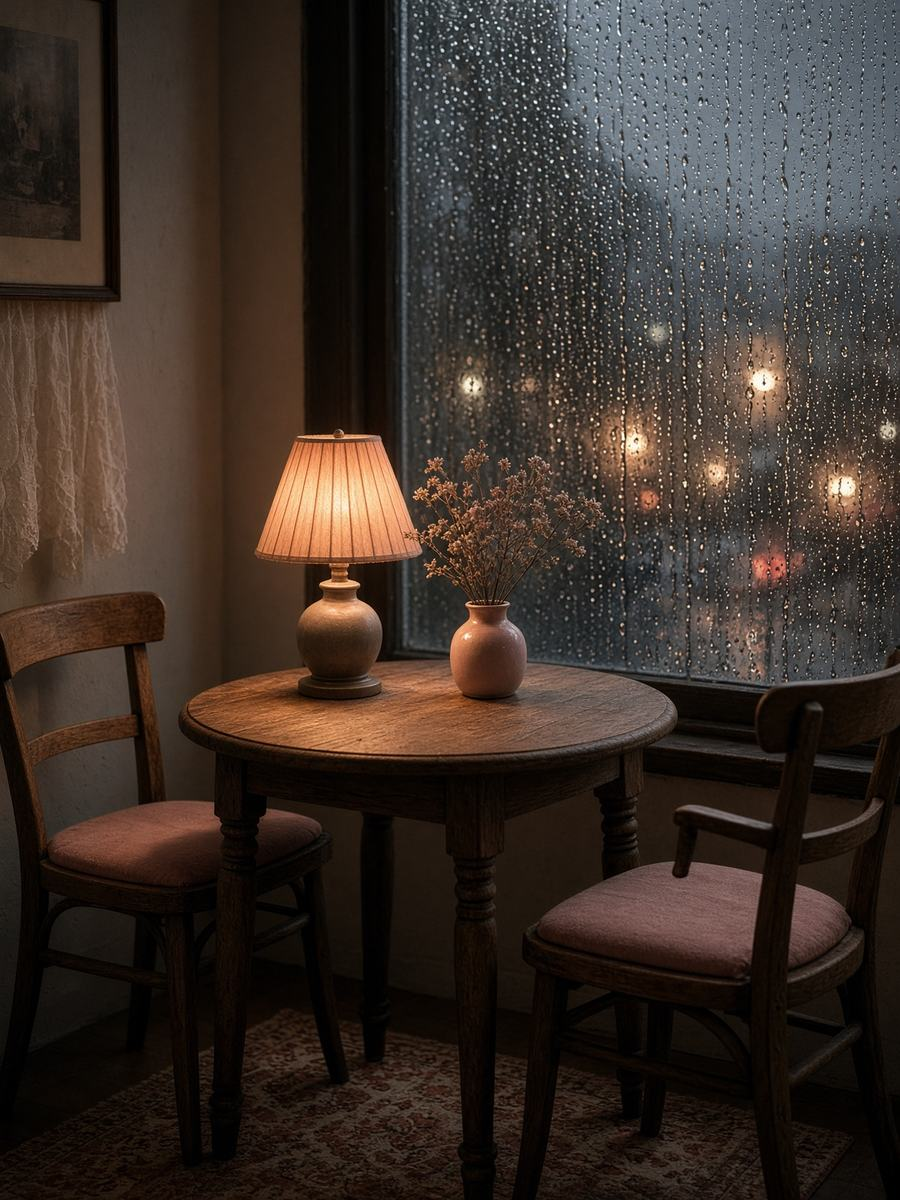
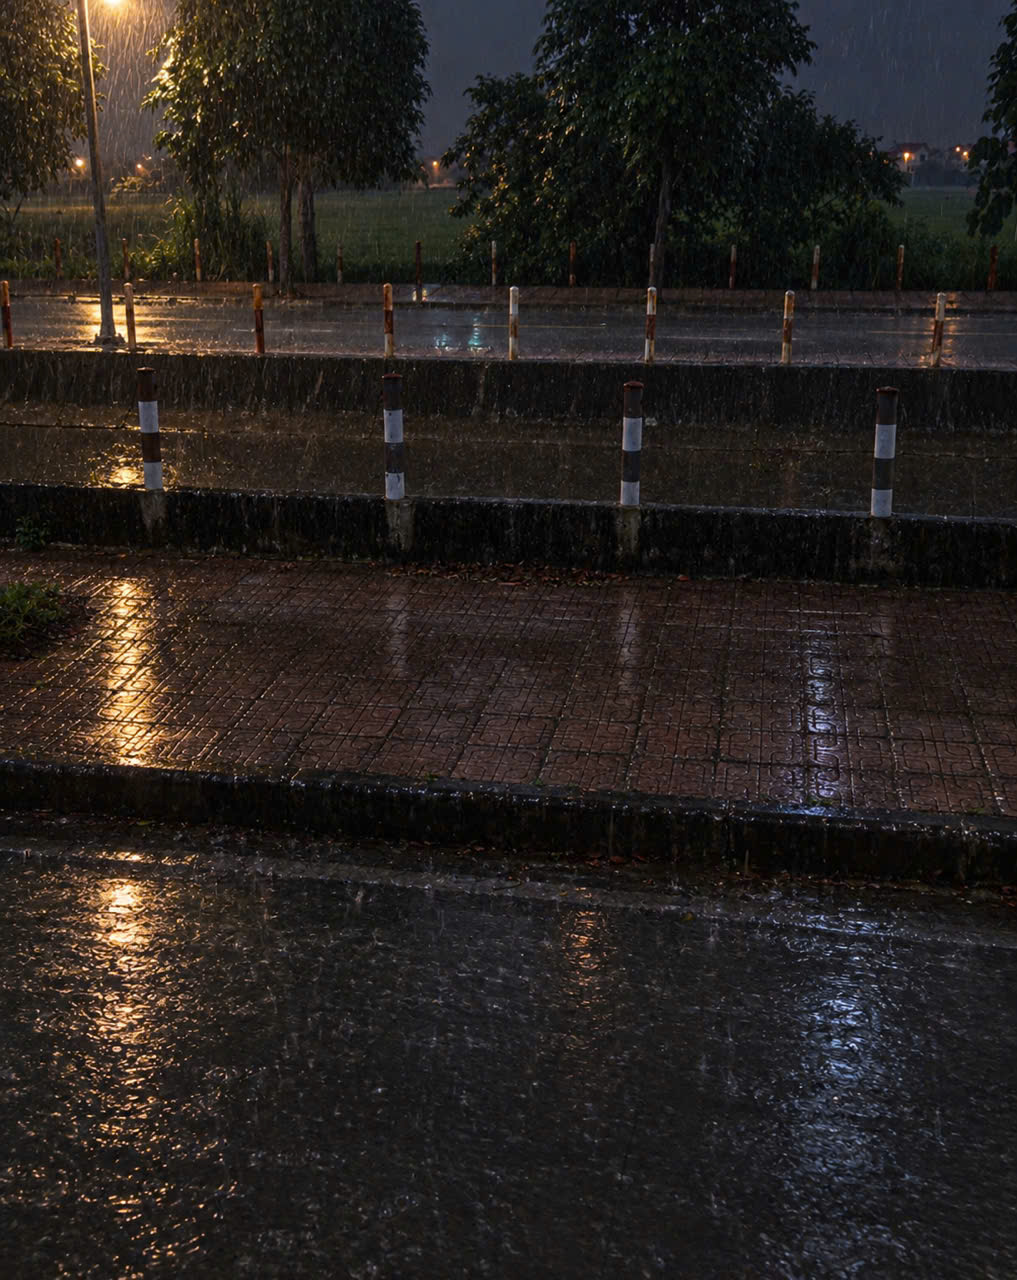
Update gift website

diff --git a/src/content/gift.ts b/src/content/gift.ts
@@ -22,84 +22,137 @@ export type MemoryMoment = {
 
 export const gift = {
   intro: {
-    headline: "Có một món quà nhỏ dành riêng cho cậu",
+    headline: "Có một món quà nhỏ dành riêng cho Huệ",
     hint: "Chạm vào hộp quà để mở nhé ♡",
   },
+
   story: {
-    kicker: "Một lá thư được gói lại",
-    title: "Dành cho cậu",
-    lede: "Mở chậm thôi. Phía dưới là thư, vài khung ảnh, một dòng thời gian, và một lời nhắn mình giấu ở cuối.",
+    kicker: "Từ một lần gặp gỡ",
+    title: "Gửi em, Huệ",
+    lede:
+      "Anh đã gom một vài kỷ niệm nhỏ vào đây. Có những điều anh vẫn nhớ, có những điều anh chưa từng nói, và có một điều anh muốn em biết khi đọc đến cuối.",
   },
+
   letter: {
-    greeting: "Cậu ơi,",
+    greeting: "Huệ ơi,",
+
     paragraphs: [
-      "Mình gói món quà này để cậu mở một mình, như nhận một điều chỉ dành cho cậu — không ồn ào, không cần trả lời ngay.",
-      "Cảm ơn cậu đã khiến những ngày bình thường trở nên dịu hơn. Mình không cần một dịp thật lớn mới nhớ đến cậu.",
-      "Nếu cậu đang mỉm cười lúc này, món quà đã tới đúng chỗ. Phía dưới còn vài khung ảnh, một dòng thời gian, và một lời nhắn mình giấu ở cuối.",
+      "Anh cũng không biết phải bắt đầu từ đâu nữa. Có lẽ là từ ngày 06/09, khi hai đứa gặp nhau ở sân cầu lông. Lúc ấy anh đâu nghĩ rằng một người mới quen lại có thể dần trở thành người khiến anh mong chờ những lần gặp tiếp theo đến vậy.",
+
+      "Sau đó là những buổi đánh cầu, buổi đi chơi quanh Hồ Tây, hôm trời mưa, buổi Music Box, những lần ngồi cà phê và cả những cuộc gọi kéo dài đến khuya. Mỗi chuyện khi xảy ra đều rất bình thường, nhưng chẳng hiểu từ lúc nào anh lại nhớ chúng lâu hơn mình nghĩ.",
+
+      "Anh bắt đầu nhớ những điều nhỏ xíu về em, nhớ những câu chuyện em kể, nhớ cả cảm giác vui vui khi biết hôm nay có thể gặp em. Có những ngày chẳng có gì đặc biệt, nhưng chỉ cần được nói chuyện với em một lúc thôi cũng đủ khiến ngày hôm ấy dễ chịu hơn.",
+
+      "Anh làm trang quà này không phải vì muốn biến những kỷ niệm ấy thành điều gì quá lớn lao. Anh chỉ muốn giữ lại một chút những ngày vừa qua, theo cách riêng của anh, để em biết rằng sự xuất hiện của em đã khiến cuộc sống thường ngày của anh có thêm nhiều điều đáng mong chờ.",
+
+      "Có một điều anh đã nghĩ khá lâu mới quyết định nói ra. Anh thích em, Huệ ạ. Không chỉ vì những buổi đi chơi vui vẻ, mà vì càng tiếp xúc, anh càng muốn hiểu em nhiều hơn, quan tâm em nhiều hơn và được cùng em tạo thêm những kỷ niệm mới.",
+
+      "Anh biết chuyện tình cảm không phải cứ có một người chân thành thì mọi thứ sẽ tự nhiên trở nên đúng lúc. Anh cũng nhớ em từng nói rằng em sợ làm tổn thương người khác khi yêu. Vì thế, anh không muốn em cảm thấy phải trả lời anh theo cách nào đó chỉ vì anh đã chuẩn bị món quà này.",
+
+      "Anh chỉ muốn thành thật với cảm xúc của mình. Nếu em cũng muốn, anh mong hai đứa có thể cho nhau cơ hội tìm hiểu nghiêm túc hơn, chậm rãi thôi, để cả hai đều cảm thấy thoải mái và chân thành.",
     ],
-    signoff: "Người viết những dòng này",
+
+    signoff: "Người đang mong chờ những ngày có em",
   },
+
   album: {
-    label: "Album",
-    title: "Những khung ảnh",
-    note: "Chạm vào ảnh để xem lớn hơn. Đây là ảnh minh họa — hãy thay bằng ảnh của hai người.",
+    label: "Kỷ niệm",
+    title: "Những điều anh muốn giữ",
+    note:
+      "Mỗi bức ảnh có thể không kể hết một câu chuyện, nhưng anh vẫn muốn giữ lại những khoảnh khắc mà sau này nhìn lại, mình sẽ nhớ đã từng có những ngày như thế.",
+
     photos: [
       {
         src: "/memories/tea.jpg",
-        alt: "Hai tách trà và một bông hồng trên khăn lanh",
-        caption: "Hai tách trà — ảnh minh họa",
+        alt: "Một góc quán cà phê yên tĩnh",
+        caption: "Những buổi ngồi coffee cạnh nhau",
       },
       {
         src: "/memories/pier.jpg",
-        alt: "Lối gỗ bên mặt nước lúc chiều, hai đôi giày đặt cạnh nhau",
-        caption: "Cuối một lối đi — ảnh minh họa",
-      },
-      {
-        src: "/memories/envelope.jpg",
-        alt: "Phong thư màu kem và những đóa hồng khô",
-        caption: "Phong thư chưa viết — ảnh minh họa",
+        alt: "Khung cảnh Hồ Tây lúc chiều",
+        caption: "Một vòng Hồ Tây",
       },
       {
         src: "/memories/rain.jpg",
-        alt: "Bàn nhỏ bên cửa sổ đêm mưa, một ngọn đèn ấm",
-        caption: "Đêm mưa bên cửa sổ — ảnh minh họa",
+        alt: "Những gì có thể",
+        caption: "Một buổi đánh cầu trời mưa",
       },
-    ] satisfies MemoryPhoto[],
+      {
+        src: "/memories/music.jpg",
+        alt: "Một buổi Music Box",
+        caption: "Một buổi Music Box",
+      },
+      {
+        src: "/memories/cham.jpg",
+        alt: "lần đầu chạm nhẹ",
+        caption: "Lần đầu chạm nhẹ tay nhau",
+      },
+
+      {
+        src: "/memories/call.jpg",
+        alt: "Đánh cầu vui vẻ",
+        caption: "Tấm ảnh muốn giữ",
+      }
+
+    ],
   },
+
   timeline: {
-    label: "Thời gian",
-    title: "Những mốc muốn giữ",
+    label: "Hành trình",
+    title: "Từ ngày ấy đến bây giờ",
+
     moments: [
       {
-        when: "Thuở ban đầu",
-        title: "Khoảnh khắc đầu tiên",
-        body: "Viết lại lần đầu hai người gặp nhau, hoặc lần đầu cậu làm mình chú ý.",
+        when: "06/09",
+        title: "Lần đầu gặp em",
+        body:
+          "Chỉ là một lần gặp nhau ở sân cầu lông, rồi kết bạn Zalo. Khi ấy anh chưa biết rằng mình sẽ có nhiều kỷ niệm với em đến vậy.",
       },
       {
-        when: "Một ngày dịu",
-        title: "Điều mình hay nhớ",
-        body: "Một buổi đi bộ, một tin nhắn khuya, hay một câu nói rất nhỏ.",
+        when: "13/09",
+        title: "Một ngày quanh Hồ Tây",
+        body:
+          "Từ Jollibee, quán cà phê đến những đoạn đường quanh Hồ Tây. Một ngày dài hơn dự định, nhưng khi nhớ lại, anh chỉ thấy thời gian trôi nhanh quá.",
       },
       {
-        when: "Gần đây",
-        title: "Điều mình muốn giữ",
-        body: "Một kỷ niệm còn ấm. Thay dòng này bằng chính lời của bạn.",
+        when: "16–18/09",
+        title: "Mưa và một buổi Music Box",
+        body:
+          "Một ngày đi qua mưa để gặp em, cùng ăn cháo sau buổi đánh cầu. Rồi một buổi Music Box khiến anh bất ngờ vì giọng hát của em. Những chuyện nhỏ mà anh vẫn nhớ.",
       },
       {
-        when: "Hôm nay",
-        title: "Ngày mở hộp quà",
-        body: "Có thể ghi lại cảm giác của chính ngày cậu đọc những dòng này.",
+        when: "26/09",
+        title: "Một chút gần gũi",
+        body:
+          "Có những khoảnh khắc khiến anh nhận ra mình muốn được gần em hơn một chút. Anh vẫn muốn mọi điều diễn ra tự nhiên, để cả hai đều thấy thoải mái.",
       },
-    ] satisfies MemoryMoment[],
+      {
+        when: "07–10/10",
+        title: "Những cuộc gọi kéo dài",
+        body:
+          "Từ những buổi đánh cầu, những câu chuyện sau giờ chơi đến các cuộc gọi buổi tối. Anh nhận ra mình ngày càng mong chờ những lúc được trò chuyện với em.",
+      },
+      {
+        when: "16/10",
+        title: "Một điều anh muốn nói",
+        body:
+          "Anh không biết sau ngày hôm nay, câu chuyện của hai đứa sẽ đi đến đâu. Nhưng anh muốn em biết rằng những ngày vừa qua thật sự có ý nghĩa với anh.",
+      },
+    ],
   },
+
   secret: {
-    button: "Mở lời nhắn bí mật",
-    title: "Lời muốn nói",
+    button: "Có một điều anh muốn nói",
+    title: "Anh thích em, Huệ ạ",
+
     message:
-      "Mình thích cậu. Không chỉ trong những ngày đẹp, mà cả những lúc chẳng có gì đặc biệt — chỉ cần được nghĩ về cậu là đủ. Nếu cậu muốn, mình muốn tiếp tục đi bên cậu, chậm rãi và thật lòng.",
+      "Anh thích em. Anh muốn được quan tâm em nhiều hơn, hiểu em nhiều hơn và nghiêm túc tìm hiểu em, không chỉ với tư cách một người em nữa. Nếu em cũng muốn, mình thử cho nhau một cơ hội nhé? Còn nếu em chưa sẵn sàng hoặc không có cùng cảm xúc, anh vẫn tôn trọng điều đó. Em không cần phải trả lời chỉ để anh vui đâu. Anh chỉ mong em biết rằng những điều anh nói hôm nay đều là thật lòng.",
+
     close: "Gấp lời nhắn lại",
   },
+
   fold: "Gấp lại hộp quà",
+
   editNote:
-    "Bản mẫu. Trước khi gửi, hãy đổi thư, lời nhắn, các mốc thời gian và ảnh trong phần nội dung của trang.",
+    "Hãy thay ảnh minh họa bằng những bức ảnh thật của hai người trước khi gửi. Kiểm tra lại ngày tháng và các kỷ niệm để tất cả đều đúng với câu chuyện của hai người.",
 };
